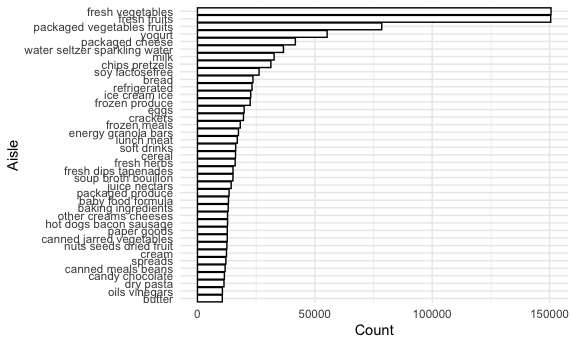
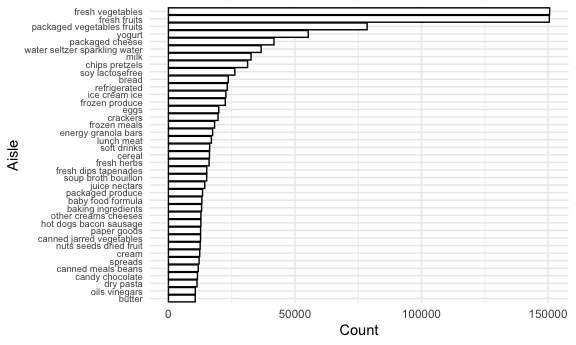
Problem 1: updated plots (axes, legend titles)

diff --git a/p8105_hw3_mtr2143.md b/p8105_hw3_mtr2143.md
@@ -54,7 +54,10 @@ instacart %>%
       labels = c("0", "100k", "200k", "300k", "400k")) +
     coord_flip()
 
-(dept_ge_100k_plot + dept_less_100k_plot)
+(dept_ge_100k_plot + dept_less_100k_plot) +
+  plot_annotation(
+    title = 'Total products ordered by department'
+    )
 ```
 
 <img src="p8105_hw3_mtr2143_files/figure-gfm/plots eda-1.png" width="90%" />
@@ -80,7 +83,9 @@ instacart %>%
   ) %>% 
   arrange(time_of_day) %>% 
   ggplot(aes(x = order_dow, y = n_orders , fill = time_of_day)) +
-    geom_col()
+    geom_col() +
+    xlab("Day of Week") + ylab("Order Count") +
+    labs(fill = "Time of Day")
 ```
 
 <img src="p8105_hw3_mtr2143_files/figure-gfm/plots eda-2.png" width="90%" />
@@ -113,6 +118,7 @@ aisles %>%
   ggplot(aes(x = reorder(aisle, total_items_ordered), y = total_items_ordered)) +
     geom_bar(stat = "identity", colour = "black", fill = "white") + 
     xlab("Aisle") + ylab("Count") +
+    theme(axis.text.y = element_text(size = 7)) +
     coord_flip()
 ```
 
